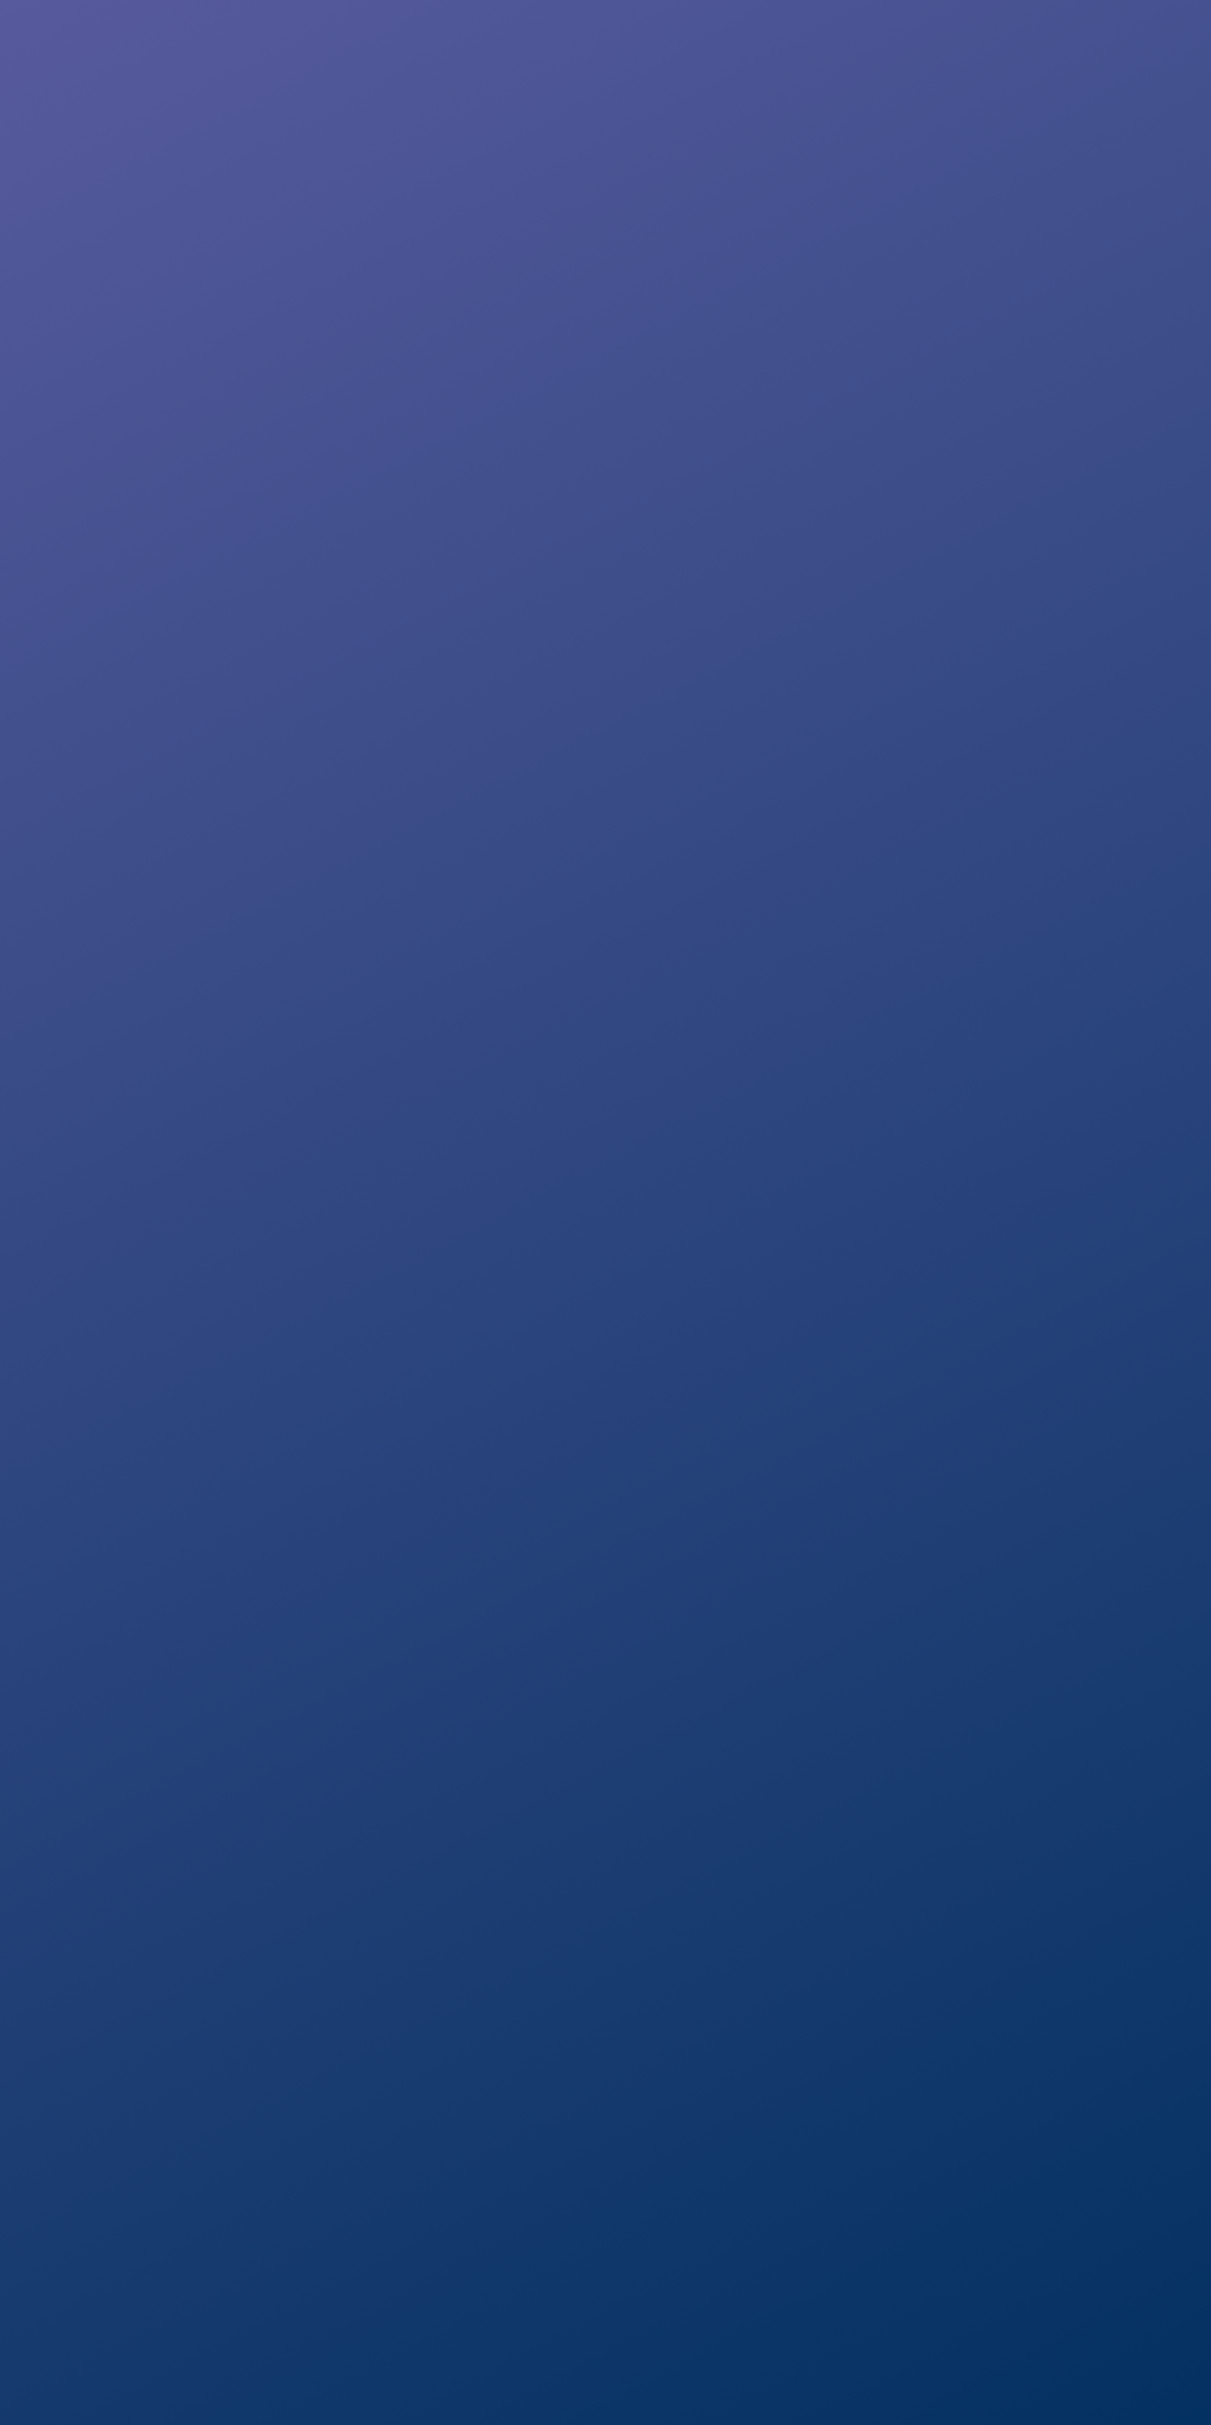
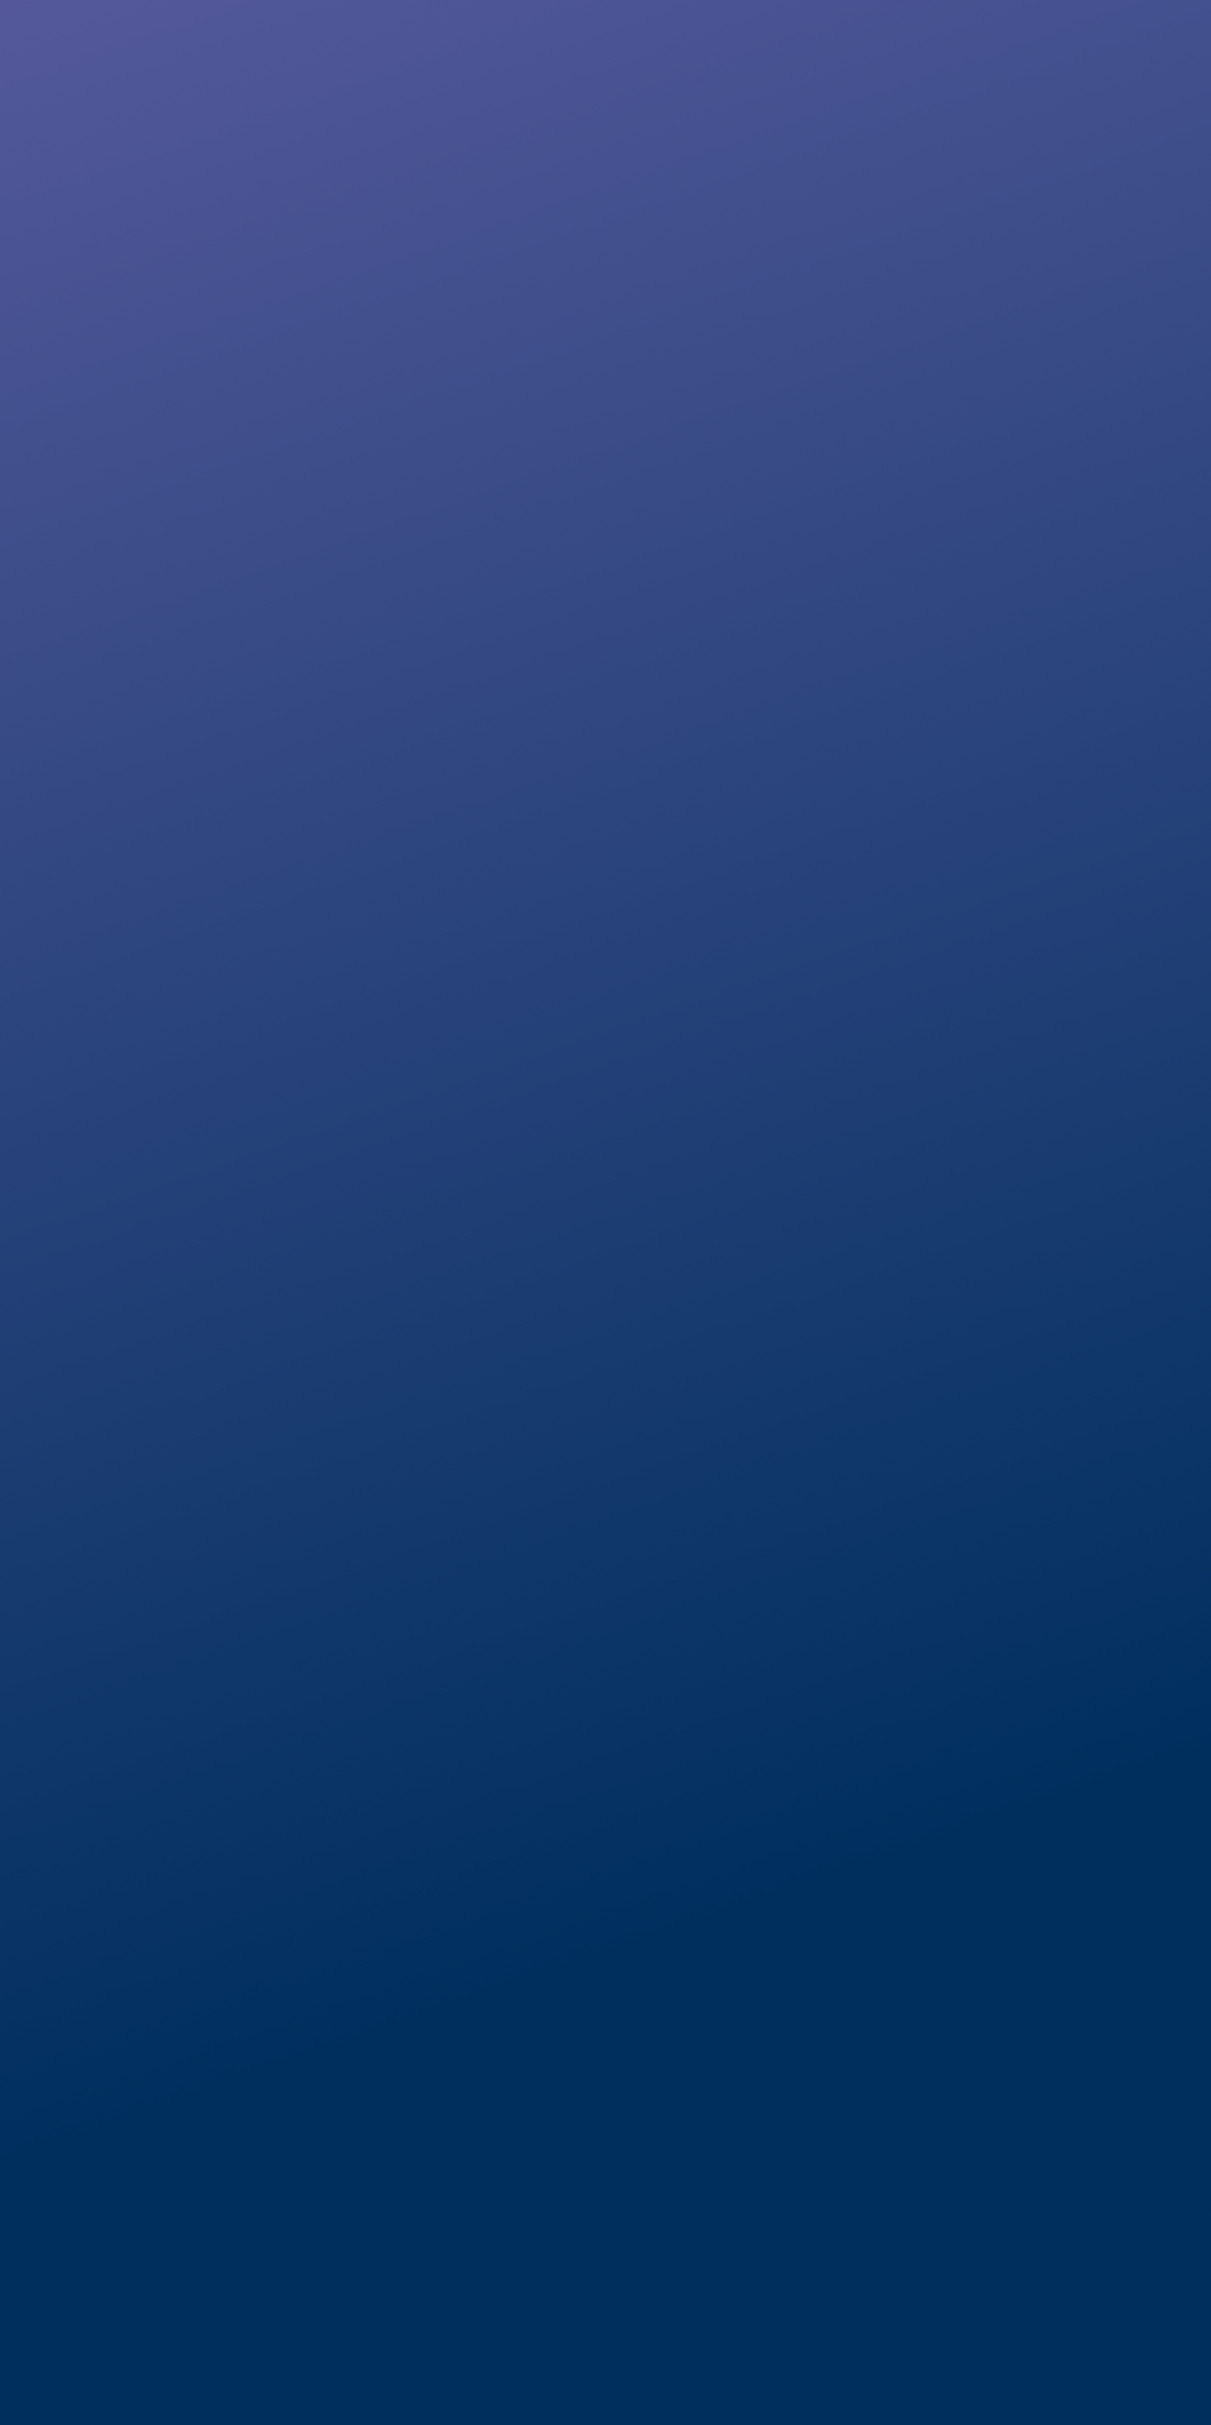
Actualizar endpoints

Changed region(s): [[0.0, 0.7113, 0.6722, 0.9278]]

diff --git a/lib/vistas/preload.dart b/lib/vistas/preload.dart
@@ -30,7 +30,7 @@ class _PreloadState extends State<Preload> with SingleTickerProviderStateMixin {
   SharedPreferences prefs;
   validarLogin()
   async{
-    String url ="$urlGlobal/cobra-ws-condor/login";
+    String url ="$urlGlobal/siente3-ws/login";
     prefs = await SharedPreferences.getInstance();
     
     var body = {
@@ -157,11 +157,11 @@ class _PreloadState extends State<Preload> with SingleTickerProviderStateMixin {
         height: MediaQuery.of(context).size.height,
         decoration: BoxDecoration(
           image: DecorationImage(
-            image: AssetImage("assets/img/Desglose/Preloader/bg-preloader.jpg"),
+            image: AssetImage("assets/img/Desglose/Preloader/bg-preloader.gif"),
             fit: BoxFit.cover
           ),
         ),
-        child: Stack(
+        /* child: Stack(
           children: <Widget>[
             Center(
               child: GestureDetector(
@@ -208,7 +208,7 @@ class _PreloadState extends State<Preload> with SingleTickerProviderStateMixin {
               )
             )
           ],
-        )
+        ) */
       ),
       // bottomNavigationBar: Container(
       //   color: AppTheme.primero,

diff --git a/lib/vistas/login.dart b/lib/vistas/login.dart
@@ -170,8 +170,8 @@ class _LoginPageState extends State<LoginPage> {
                           context, 
                           MaterialPageRoute(
                             builder: (context) => Preload(
-                              //txt_usuario:'interkont@2',
-                              //txt_contrasena:'45911804'
+                              // txt_usuario:'interkont@2',
+                              // txt_contrasena:'45911804'
                               txt_usuario:txt_usuario,
                               txt_contrasena:txt_contrasena
                             )
@@ -239,9 +239,13 @@ class _LoginPageState extends State<LoginPage> {
                       )
                       :Text(''),
 
+                      SizedBox(
+                        height: 15.0,
+                      ),
+
                       Container(
                         child: Image(
-                          height: 85.0,
+                          height: 70.0,
                           image: AssetImage(
                             'assets/img/Desglose/Login/logo-footer.png'
                           )

diff --git a/lib/vistas/reportarAvance/cuerpo/cargando.dart b/lib/vistas/reportarAvance/cuerpo/cargando.dart
@@ -283,7 +283,7 @@ class _CargandoFinalizarState extends State<CargandoFinalizar> with SingleTicker
                 )
               ),
               
-              Positioned(
+              /*Positioned(
                 width: MediaQuery.of(context).size.width/2,
                 height: 100.0,
                 top: MediaQuery.of(context).size.height-150.0,
@@ -296,7 +296,7 @@ class _CargandoFinalizarState extends State<CargandoFinalizar> with SingleTicker
                     )
                   )
                 )
-              )
+              )*/
             ],
           )
       ),

diff --git a/lib/globales/variables.dart b/lib/globales/variables.dart
@@ -1,8 +1,8 @@
 library my_prj.variables;
 
-String urlGlobal = 'http://13.59.62.87:8080';
+String urlGlobal = 'http://13.59.62.87:7070';
 // String urlGlobal = 'https://appcondor.car.gov.co';
-String urlGlobalApiCondor = urlGlobal+'/cobra-ws-condor';
+String urlGlobalApiCondor = urlGlobal + '/siente3-ws';
 int posicionListaProyectosSeleccionado = 0;
 String txtBtnDesplegableAvanceCualitativo = '';
 int idAspectoEvaluar;

diff --git a/lib/globales/colores.dart b/lib/globales/colores.dart
@@ -18,7 +18,7 @@ class AppTheme {
   
   // static const Color primero = Color(0xFF0170bd);
   // static const Color segundo = Color(0xFF1ea782);
-  static const Color primero = Color(0xFF0270bd);
+  static const Color primero = Color(0xFF002F5E);
   static const Color segundo = Color(0xFF41b16d);
   static const Color primarioBackground = Color(0xFF002F5E);
   static const Color segundoBackground = Color(0xFF575A9D);

diff --git a/lib/vistas/reportarAvance/cuerpo/segundoPaso/cajonTexto.dart b/lib/vistas/reportarAvance/cuerpo/segundoPaso/cajonTexto.dart
@@ -62,7 +62,7 @@ Widget cajonTexto(context, textoTitulo, textoHint, logros, capturarCambio, TextE
               hintStyle: TextStyle(
                 fontFamily: 'montserrat',
                 fontWeight: FontWeight.w100,
-                fontSize: 8
+                fontSize: 13
               )
             )
           )

diff --git a/lib/vistas/reportarAvance/cabecera/cardHead.dart b/lib/vistas/reportarAvance/cabecera/cardHead.dart
@@ -111,7 +111,7 @@ Widget paso(texto, numero, pasoSeleccionado)
             '$texto',
             textAlign: TextAlign.center,
             style: TextStyle(
-              fontSize: 9.5,
+              fontSize: 11.5,
               color: AppTheme.darkText,
               fontWeight: colorLetra,
             ),

diff --git a/lib/vistas/reportarAvance/cuerpo/cuartoPaso/cajonTexto.dart b/lib/vistas/reportarAvance/cuerpo/cuartoPaso/cajonTexto.dart
@@ -50,7 +50,7 @@ Widget cajonTextoComentarios(context, textoTitulo, textoHint, accion )
               hintText: "$textoHint",
               hintStyle: TextStyle(
                 fontWeight: FontWeight.w100,
-                fontSize: 10
+                fontSize: 13
               )
             )
           )
